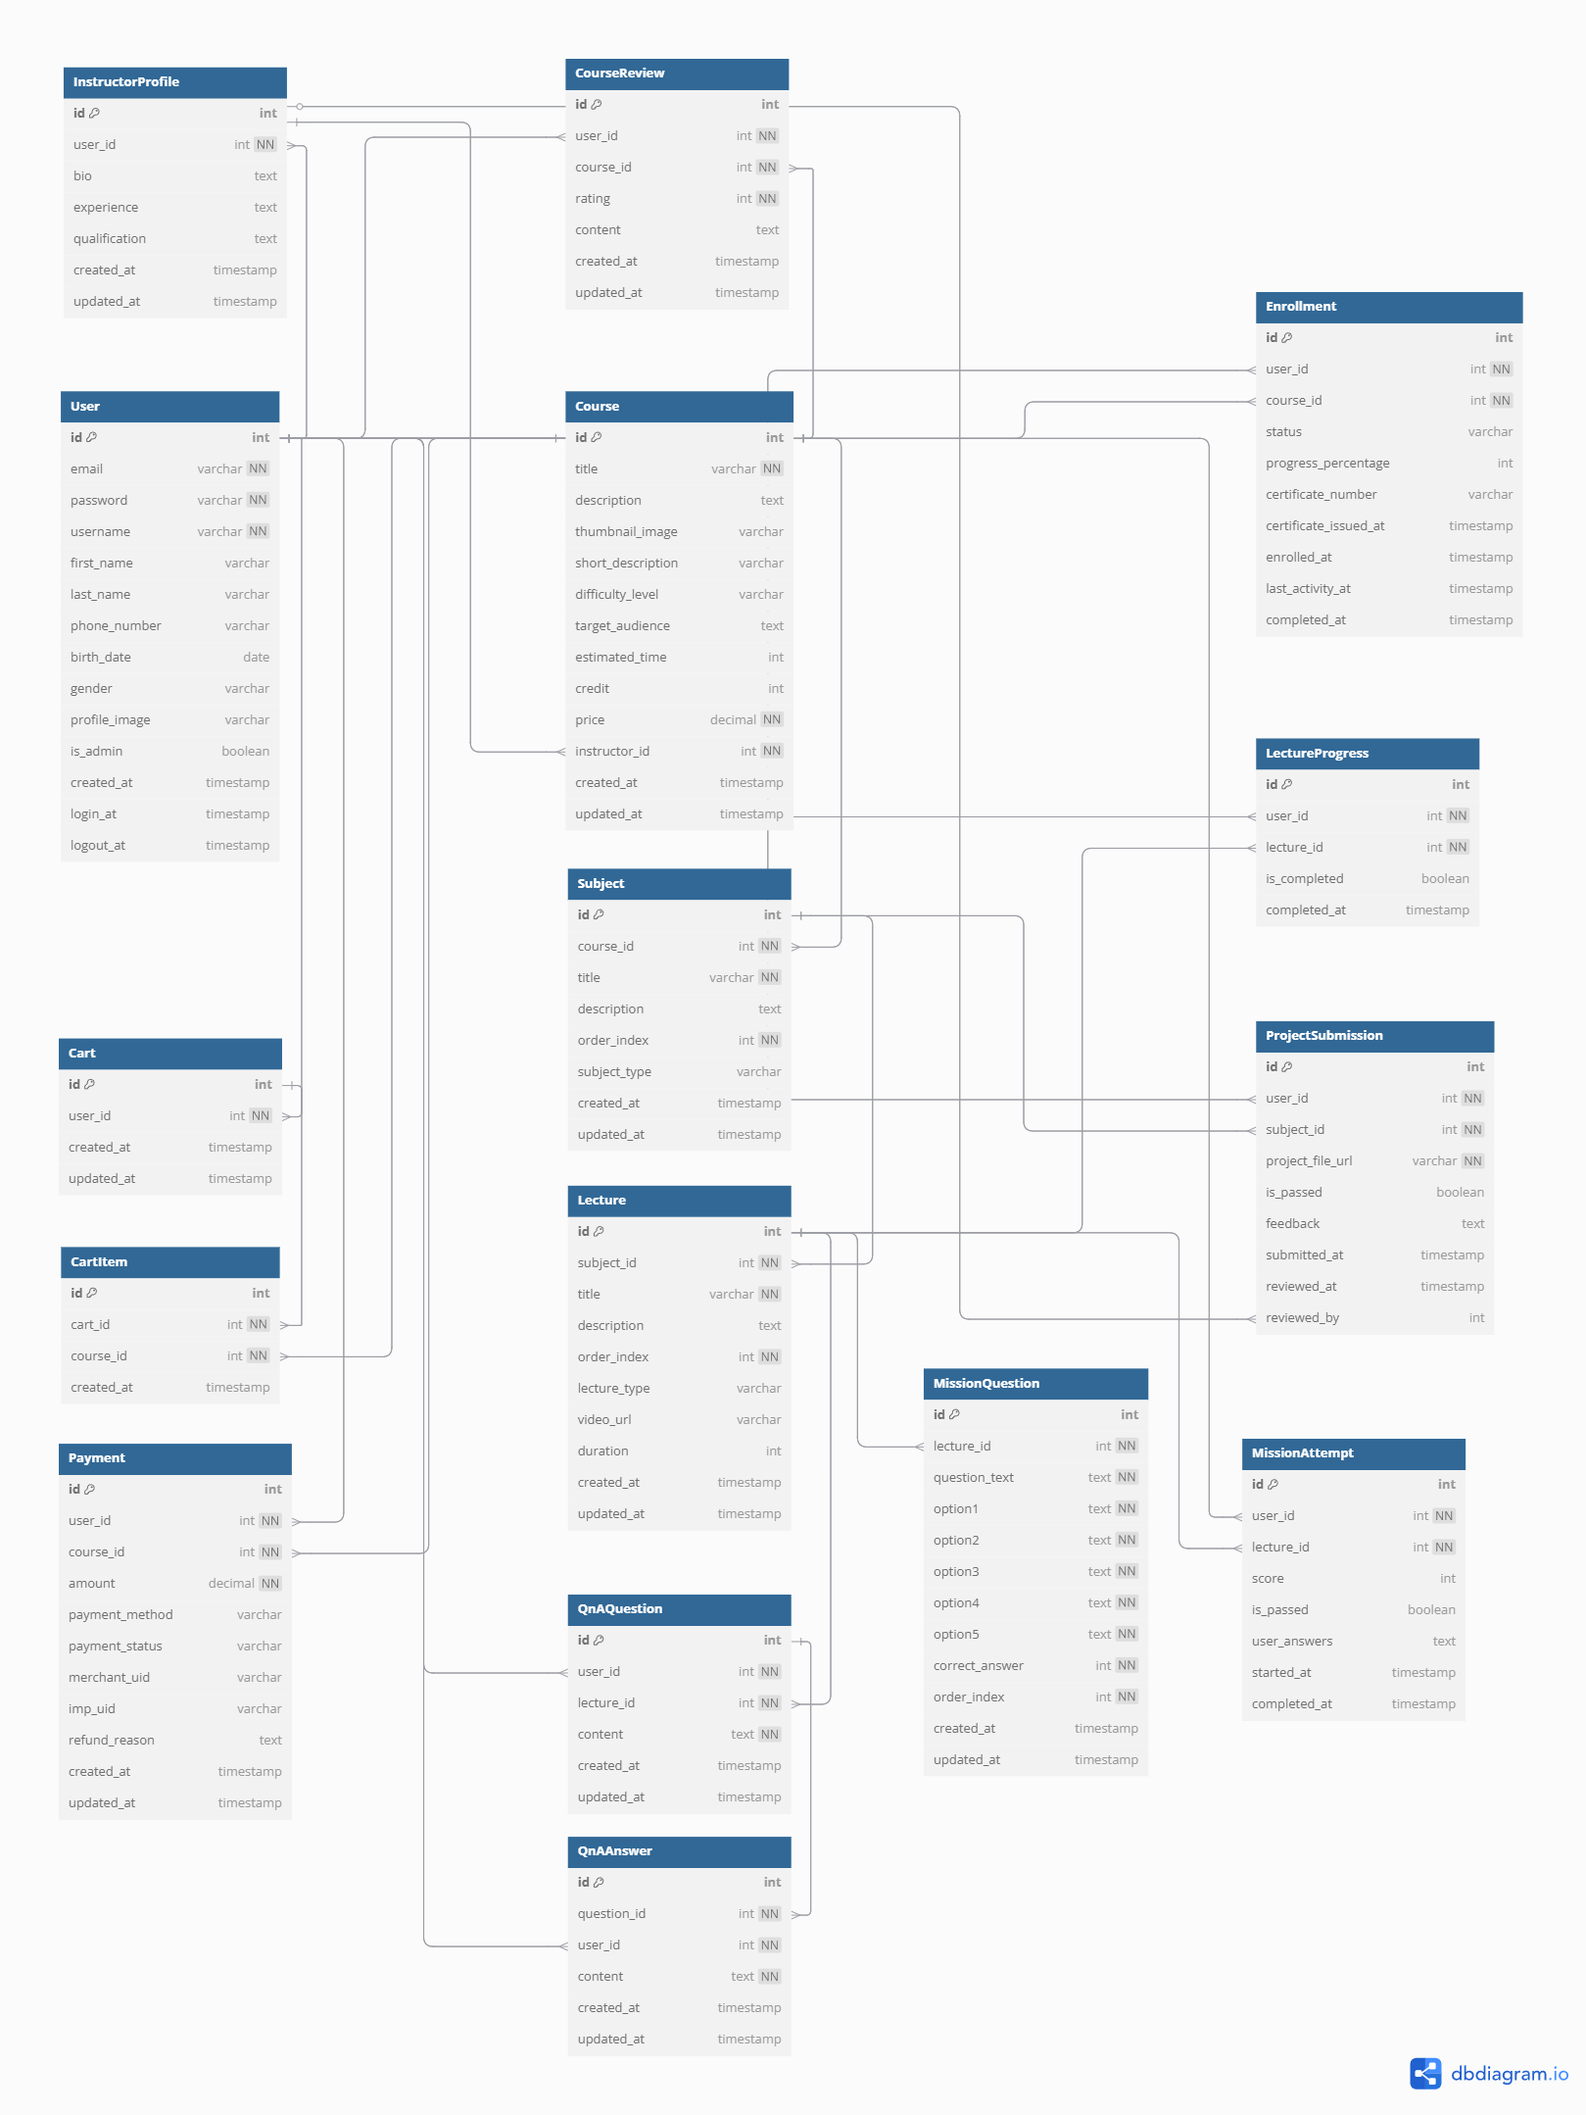
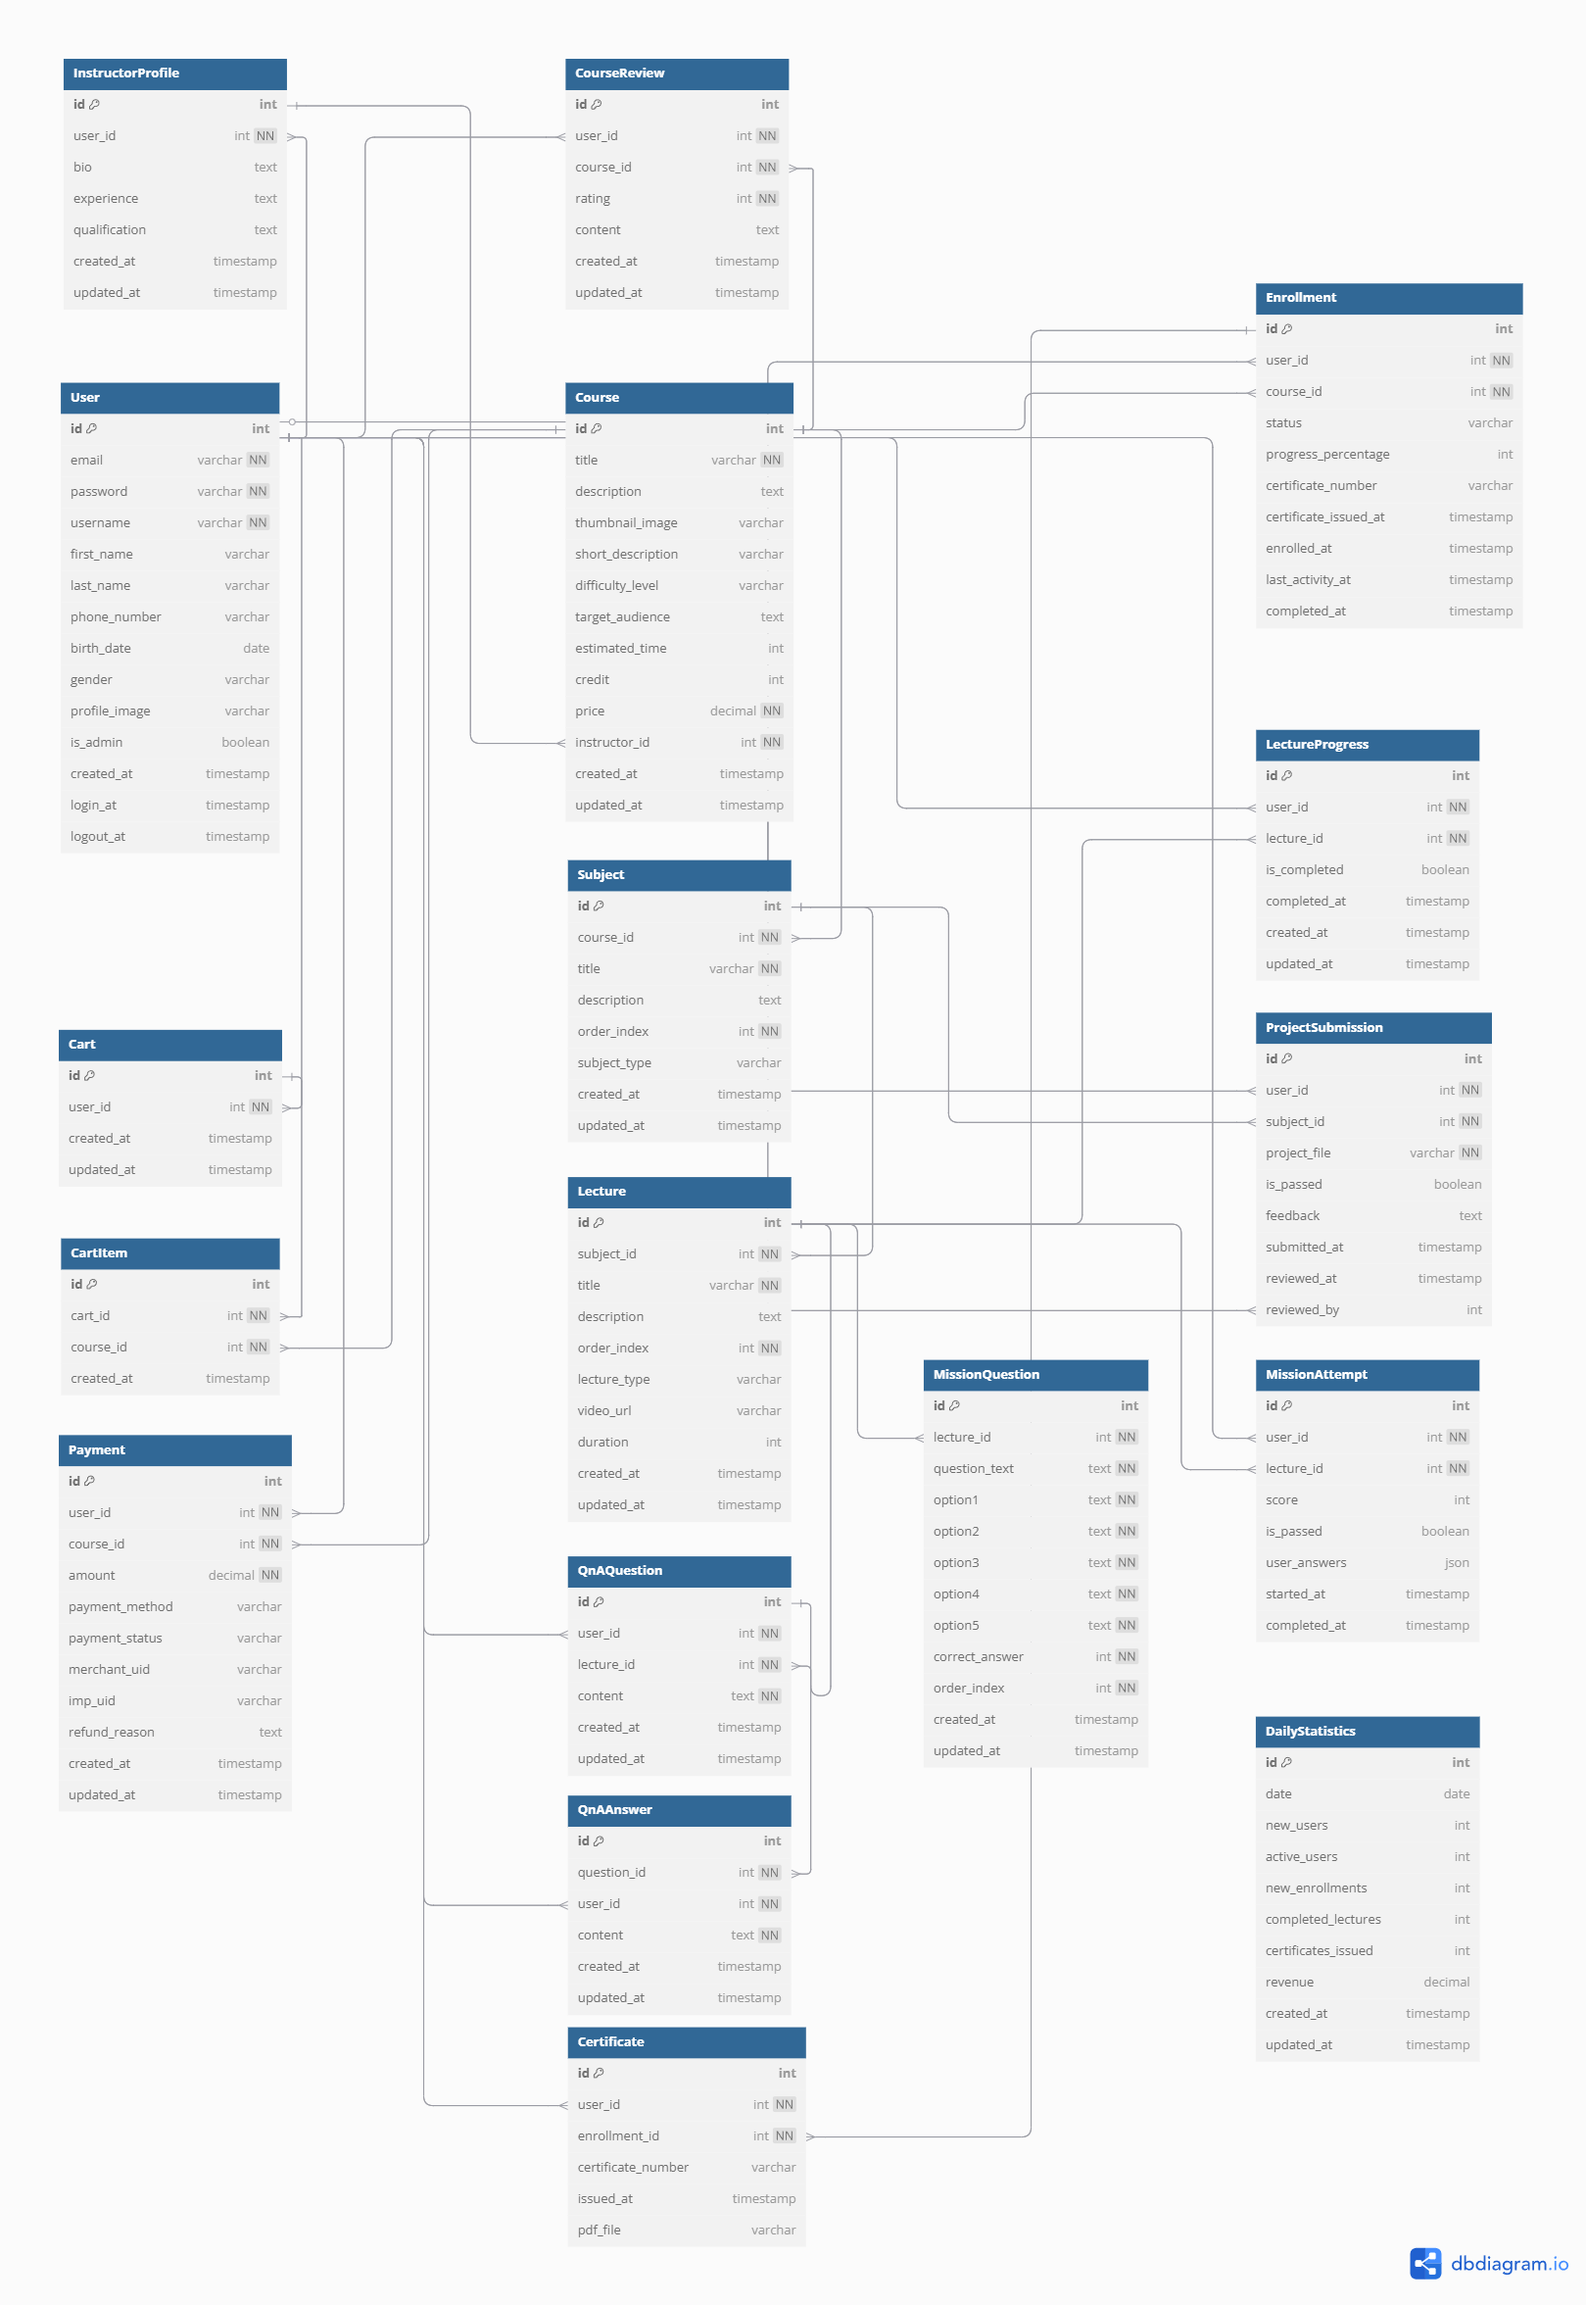
📝 DOCS: ERD 업데이트

diff --git a/docs/ERD.md b/docs/ERD.md
@@ -39,7 +39,7 @@ Table Course {
   short_description varchar
   difficulty_level varchar [note: "입문, 초급, 중급, 고급"]
   target_audience text
-  estimated_time int [note: "예상 학습시간(분)"]
+  estimated_time int [note: "예상 학습시간(시간)"]
   credit int [note: "학점"]
   price decimal [not null]
   instructor_id int [ref: > InstructorProfile.id, not null]
@@ -68,7 +68,7 @@ Table Lecture {
   order_index int [not null]
   lecture_type varchar [note: "동영상, 미션"]
   video_url varchar
-  duration int [note: "동영상 길이(초)"]
+  duration int [note: "동영상 길이(분)"]
   created_at timestamp [default: `now()`]
   updated_at timestamp [default: `now()`]
 }
@@ -134,6 +134,12 @@ Table LectureProgress {
   lecture_id int [ref: > Lecture.id, not null]
   is_completed boolean [default: false, note: "강의를 완료했는지 여부"]
   completed_at timestamp
+  created_at timestamp [default: `now()`]
+  updated_at timestamp [default: `now()`]
+
+  indexes {
+    (user_id, lecture_id) [unique]
+  }
 }
 
 // 미션(쪽지 시험 성적 및 결과)
@@ -143,9 +149,13 @@ Table MissionAttempt {
   lecture_id int [ref: > Lecture.id, not null]
   score int
   is_passed boolean [default: false]
-  user_answers text [note: "JSON 형식으로 저장된 사용자 답변"]
+  user_answers json [note: "JSON 형식으로 저장된 사용자 답변"]
   started_at timestamp [default: `now()`]
   completed_at timestamp
+
+  indexes {
+    (user_id, lecture_id)
+  }
 }
 
 // 중간고사 및 기말고사 파일 제출
@@ -153,12 +163,12 @@ Table ProjectSubmission {
   id int [pk, increment]
   user_id int [ref: > User.id, not null]
   subject_id int [ref: > Subject.id, not null]
-  project_file_url varchar [not null]
+  project_file varchar [not null]
   is_passed boolean [default: false]
   feedback text
   submitted_at timestamp [default: `now()`]
   reviewed_at timestamp
-  reviewed_by int [ref: > InstructorProfile.id]
+  reviewed_by int [ref: > User.id]
 }
 
 // 결제 관련
@@ -185,6 +195,10 @@ Table CourseReview {
   content text
   created_at timestamp [default: `now()`]
   updated_at timestamp [default: `now()`]
+
+  indexes {
+    (user_id, course_id) [unique]
+  }
 }
 
 // 장바구니
@@ -201,5 +215,33 @@ Table CartItem {
   cart_id int [ref: > Cart.id, not null]
   course_id int [ref: > Course.id, not null]
   created_at timestamp [default: `now()`]
+
+  indexes {
+    (cart_id, course_id) [unique]
+  }
+}
+
+// 수료증
+Table Certificate {
+  id int [pk, increment]
+  user_id int [ref: > User.id, not null]
+  enrollment_id int [ref: > Enrollment.id, not null, unique]
+  certificate_number varchar [unique]
+  issued_at timestamp [default: `now()`]
+  pdf_file varchar
+}
+
+// 일별 통계 정보
+Table DailyStatistics {
+  id int [pk, increment]
+  date date [unique]
+  new_users int [default: 0, note: "신규 가입자 수"]
+  active_users int [default: 0, note: "활성 사용자 수"]
+  new_enrollments int [default: 0, note: "신규 수강 신청 수"]
+  completed_lectures int [default: 0, note: "완료된 강의 수"]
+  certificates_issued int [default: 0, note: "발급된 수료증 수"]
+  revenue decimal [default: 0, note: "일일 매출액"]
+  created_at timestamp [default: `now()`]
+  updated_at timestamp [default: `now()`]
 }
 ```
